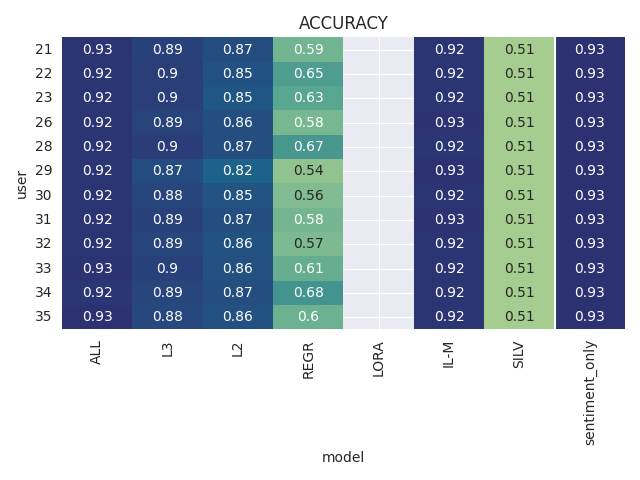
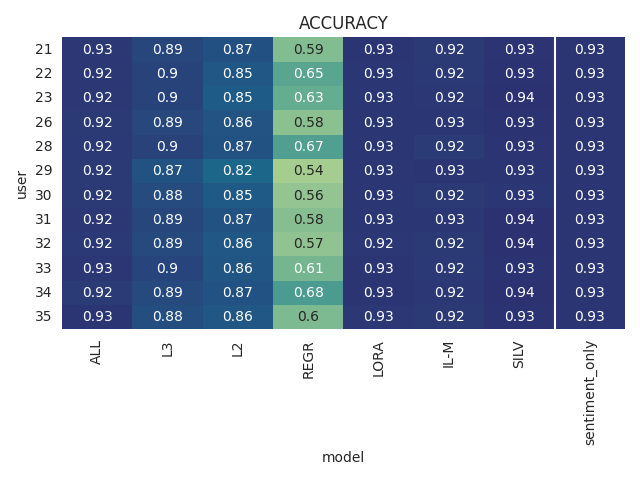
added learnable weights for silver labels finetuning

diff --git a/modules/modeling/custom_modeling_roberta.py b/modules/modeling/custom_modeling_roberta.py
@@ -421,3 +421,186 @@ class RobertaForInterleavedMultitask(RobertaPreTrainedModel):
             attentions=outputs.attentions,
             labels=labels,
         )
+
+
+class AutomaticWeightedLoss(nn.Module):
+    """
+    Automatically weighted multi-task loss.
+
+    Params:
+        num: int
+            The number of loss functions to combine.
+        x: tuple
+            A tuple containing multiple task losses.
+
+    Examples:
+        loss1 = 1
+        loss2 = 2
+        awl = AutomaticWeightedLoss(2)
+        loss_sum = awl(loss1, loss2)
+    """
+    def __init__(self, num=2):
+        super(AutomaticWeightedLoss, self).__init__()
+        # Initialize parameters for weighting each loss, with gradients enabled
+        params = torch.ones(num, requires_grad=True)
+        self.params = nn.Parameter(params)
+
+    def forward(self, *losses):
+        """
+        Forward pass to compute the combined loss.
+
+        Args:
+            *losses: Variable length argument list of individual loss values.
+
+        Returns:
+            torch.Tensor: The combined weighted loss.
+        """
+        loss_sum = 0
+        for i, loss in enumerate(losses):
+            # Compute the weighted loss component for each task
+            weighted_loss = 0.5 / (self.params[i] ** 2) * loss
+            # Add a regularization term to encourage the learning of useful weights
+            regularization = torch.log(1 + self.params[i] ** 2)
+            # Sum the weighted loss and the regularization term
+            loss_sum += weighted_loss + regularization
+
+        return loss_sum
+
+
+class RobertaForSilverLabelMultitask(RobertaPreTrainedModel):
+    def __init__(self, config):
+        super().__init__(config)
+
+        self.roberta = RobertaModel(config, add_pooling_layer=False)
+        classifier_dropout = (
+            config.classifier_dropout if config.classifier_dropout is not None else config.hidden_dropout_prob
+        )
+        self.dropout = nn.Dropout(classifier_dropout)
+
+        # token classifiers
+        self.token_tasks = config.token_tasks
+        self.token_classifiers = nn.ModuleDict({
+            task: nn.Linear(config.hidden_size, 1) for task in self.token_tasks
+        })
+
+        # sentence classifiers
+        self.downstream_task = config.donwstream_task
+        self.sentence_classifier = RobertaClassificationHead(config)
+
+        # Initialize weights and apply final processing
+        self.post_init()
+
+        # Trainable weights for task losses
+
+        self.automated_weighted_loss = AutomaticWeightedLoss(2)
+
+        # self.num_tasks = len(self.token_tasks) + 1 #last weight is for sentence classification
+        # self.loss_weights = nn.Parameter(torch.ones(self.num_tasks+1))
+
+        # self.sentence_loss_weight = self.config.sentence_weight_init
+        # self.token_loss_weight = self.config.token_weight_init
+
+    def forward(
+            self,
+            input_ids: Optional[torch.LongTensor] = None,
+            attention_mask: Optional[torch.FloatTensor] = None,
+            token_type_ids: Optional[torch.LongTensor] = None,
+            position_ids: Optional[torch.LongTensor] = None,
+            head_mask: Optional[torch.FloatTensor] = None,
+            inputs_embeds: Optional[torch.FloatTensor] = None,
+            output_attentions: Optional[bool] = None,
+            output_hidden_states: Optional[bool] = None,
+            return_dict: Optional[bool] = None,
+            **labels_list  # contains the labels
+    ) -> Union[Tuple[torch.Tensor], MultiTaskTokenClassifierOutput]:
+        r"""
+        labels (`torch.LongTensor` of shape `(batch_size, sequence_length)`, *optional*):
+            Labels for computing the token classification loss. Indices should be in `[0, ..., config.num_labels - 1]`.
+        """
+        return_dict = return_dict if return_dict is not None else self.config.use_return_dict
+
+        outputs = self.roberta(
+            input_ids,
+            attention_mask=attention_mask,
+            token_type_ids=token_type_ids,
+            position_ids=position_ids,
+            head_mask=head_mask,
+            inputs_embeds=inputs_embeds,
+            output_attentions=output_attentions,
+            output_hidden_states=output_hidden_states,
+            return_dict=return_dict,
+        )
+
+        labels = dict()
+        for key, value in labels_list.items():
+            if key.startswith('label_'):
+                labels[key[len('label_'):]] = value
+
+        sequence_output = outputs[0]
+        # loss_weights = torch.softmax(self.loss_weights, dim=0)
+
+        loss = 0
+        mse_loss = {}
+        mae_loss = {}
+        logits = {}
+
+        
+        # DST LOSS
+            
+        dst_logits = self.sentence_classifier(sequence_output)
+        logits[self.downstream_task] = dst_logits
+
+        dst_labels = labels[self.downstream_task].type(torch.LongTensor) 
+        dst_labels = dst_labels.to(dst_logits.device)
+
+        if self.config.downstream_type == "regression":
+            loss_fct = MSELoss()
+            dst_loss = loss_fct(dst_logits.squeeze(), dst_labels.squeeze())
+        elif self.config.downstream_type == "classification":
+            loss_fct = CrossEntropyLoss()
+            dst_loss = loss_fct(dst_logits.view(-1, self.config.num_labels), dst_labels.view(-1))
+
+    
+        token_loss = 0
+        sequence_output = self.dropout(sequence_output)
+
+       # EYE GAZE LOSS
+
+        for task in self.token_tasks:
+            task_logits = self.token_classifiers[task](sequence_output)
+            logits[task] = task_logits
+            if labels[task] is not None:
+                task_labels = labels[task].to(task_logits.device)
+                # TODO: mask out the output associated with not-first-token of a word
+                # ERROR: check dimensionalities
+                output_, target_ = mask_loss(task_logits, task_labels, -100)
+
+                # MSE Loss
+                loss_fct = MSELoss()
+                task_mse_loss = loss_fct(output_, target_)
+                
+                #loss += loss_weights[idx] * task_mse_loss
+                token_loss += task_mse_loss
+
+                with torch.no_grad():
+                    mse_loss[task] = task_mse_loss
+                    # MAE Loss
+                    loss_fct = L1Loss()
+                    mae_loss[task] = loss_fct(output_, target_)
+
+        token_loss /= len(self.token_tasks) 
+
+        loss = self.automated_weighted_loss(dst_loss, token_loss)
+
+        # No need to average the loss since we are weighting it
+        # loss /= self.num_tasks
+
+        return MultiTaskTokenClassifierOutput(
+            loss=loss,
+            mse_loss=mse_loss,
+            mae_loss=mae_loss,
+            logits=logits,
+            hidden_states=outputs.hidden_states,
+            attentions=outputs.attentions,
+            labels=labels,
+        )

diff --git a/scripts/silver_labels_finetuning.py b/scripts/silver_labels_finetuning.py
@@ -3,7 +3,7 @@ import os
 sys.path.append(os.path.abspath('.'))
 
 from transformers import AutoTokenizer, TrainingArguments, set_seed, AutoConfig, Trainer
-from modules.modeling.custom_modeling_roberta import  RobertaForInterleavedMultitask
+from modules.modeling.custom_modeling_roberta import  RobertaForSilverLabelMultitask
 from modules.modeling.custom_data_collator import DataCollatorForMultiTask
 from datasets import Dataset, load_dataset
 import pandas as pd
@@ -22,10 +22,6 @@ def load_complexity_dataframe(src_path:str) -> pd.DataFrame:
     df = df[['SENTENCE', 'label']]
     df = df.rename(columns={'label': 'label_complexity'})
     return df
-
-
-def join_dataframes(dst_df, silver_eye_gaze_labels):
-    return pd.concat([dst_df, silver_eye_gaze_labels], axis=1)
 
 
 def join_dataframes(dst_df, silver_eye_gaze_labels):
@@ -155,7 +151,7 @@ def main():
     config.update({'token_tasks': TASKS,  'donwstream_task': args.downstream_task, 'downstream_type': downstream_type, 'keys_to_ignore_at_inference':['mse_loss', 'mae_loss', 'labels']})
     config.num_labels = num_labels
 
-    model = RobertaForInterleavedMultitask.from_pretrained(args.model_name, config=config)
+    model = RobertaForSilverLabelMultitask.from_pretrained(args.model_name, config=config)
 
     training_args = TrainingArguments(
         output_dir=model_out_dir, 
@@ -175,7 +171,7 @@ def main():
     trainer = Trainer(
         model=model,
         args=training_args,
-        train_dataset=train_dataset.select(range(100)),
+        train_dataset=train_dataset,
         eval_dataset=test_dataset,
         data_collator=data_collator,
         compute_metrics=compute_metrics,

diff --git a/scripts/eval/downstream_task_evaluation_comparison.py b/scripts/eval/downstream_task_evaluation_comparison.py
@@ -93,8 +93,6 @@ def load_baseline_scores(src_path, task):
 def load_metrics_dataframe(src_dir, task):
     metrics_dfs = []
     for finetuning_config in os.listdir(src_dir):
-        if finetuning_config == 'lora':
-            continue
         config_path = os.path.join(src_dir, finetuning_config)
         if not 'trainer_state.json' in os.listdir(config_path):
             for user_dir_name in os.listdir(config_path):

diff --git a/todo.md b/todo.md
@@ -5,7 +5,7 @@
   - [x] Eye-gaze perfomances
   - [x] Attention correlation
   - [ ] Sentiment:
-    - [ ] Performances
+    - [x] Performances
     - [ ] Attention correlation
   - [x] Complexity:
     - [x] Performances
@@ -14,7 +14,7 @@
 2) Partial DST finetuning
   - [x] Code
   - [ ] Sentiment:
-    - [ ] Performances
+    - [x] Performances
     - [ ] Attention correlation
   - [x] Complexity:
     - [x] Performances
@@ -27,7 +27,7 @@
      - [x] Weighted loss
   - [x] Eye-gaze perfomances
   - [ ] Sentiment:
-    - [ ] Performances
+    - [x] Performances
     - [ ] Attention correlation
   - [x] Complexity:
     - [x] Performances
@@ -36,12 +36,11 @@
 
 4) LoRa adapters
   - [x] Code
-  - [ ] Eye-gaze perfomances
   - [ ] Sentiment:
-    - [ ] Performances
+    - [x] Performances
     - [ ] Attention correlation
-  - [ ] Complexity:
-    - [ ] Performances
+  - [x] Complexity:
+    - [x] Performances
     - [x] Attention correlation
 
 
@@ -49,10 +48,9 @@
   - [x] Code:
     - [x] Silver labels predictions
     - [x] Fine-tuning
-  - [ ] Eye-gaze perfomances
   - [ ] Sentiment:
-    - [ ] Performances
+    - [x] Performances
     - [ ] Attention correlation
-  - [ ] Complexity:
-    - [ ] Performances
-    - [ ] Attention correlation
+  - [x] Complexity:
+    - [x] Performances
+    - [x] Attention correlation
